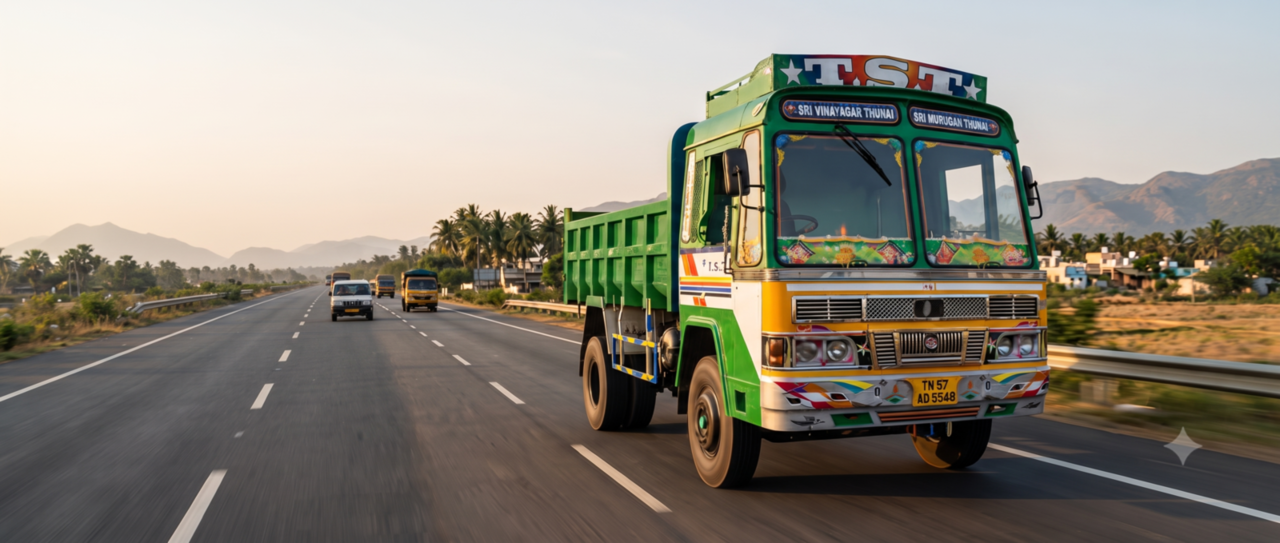
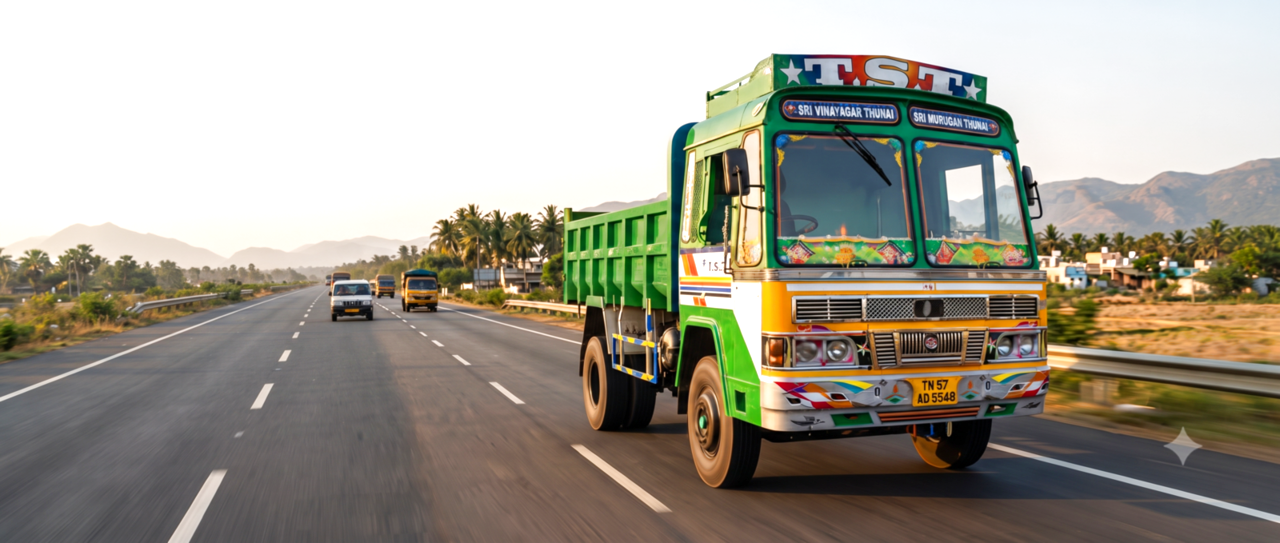
fix: remove dark overlay and boost hero image brightness & saturation

diff --git a/src/app/page.tsx b/src/app/page.tsx
@@ -43,7 +43,7 @@ export default function Home() {
   return (
     <div className="bg-bg-white text-text-slate selection:bg-brand-green selection:text-white">
       {/* Full-Bleed Cinematic Hero Section */}
-      <section ref={heroRef} className="relative w-full min-h-[85vh] h-[85vh] flex items-center overflow-hidden bg-text-slate-dark">
+      <section ref={heroRef} className="relative w-full min-h-[85vh] h-[85vh] flex items-center overflow-hidden bg-black">
 
         {/* Full-Bleed Background Slideshow */}
         <motion.div
@@ -69,9 +69,6 @@ export default function Home() {
             </motion.div>
           </AnimatePresence>
         </motion.div>
-
-        {/* Subtle Dark Overlay */}
-        <div className="absolute inset-0 z-[1] bg-black/30 pointer-events-none" />
       </section>
 
       {/* Brand Hook Section */}
